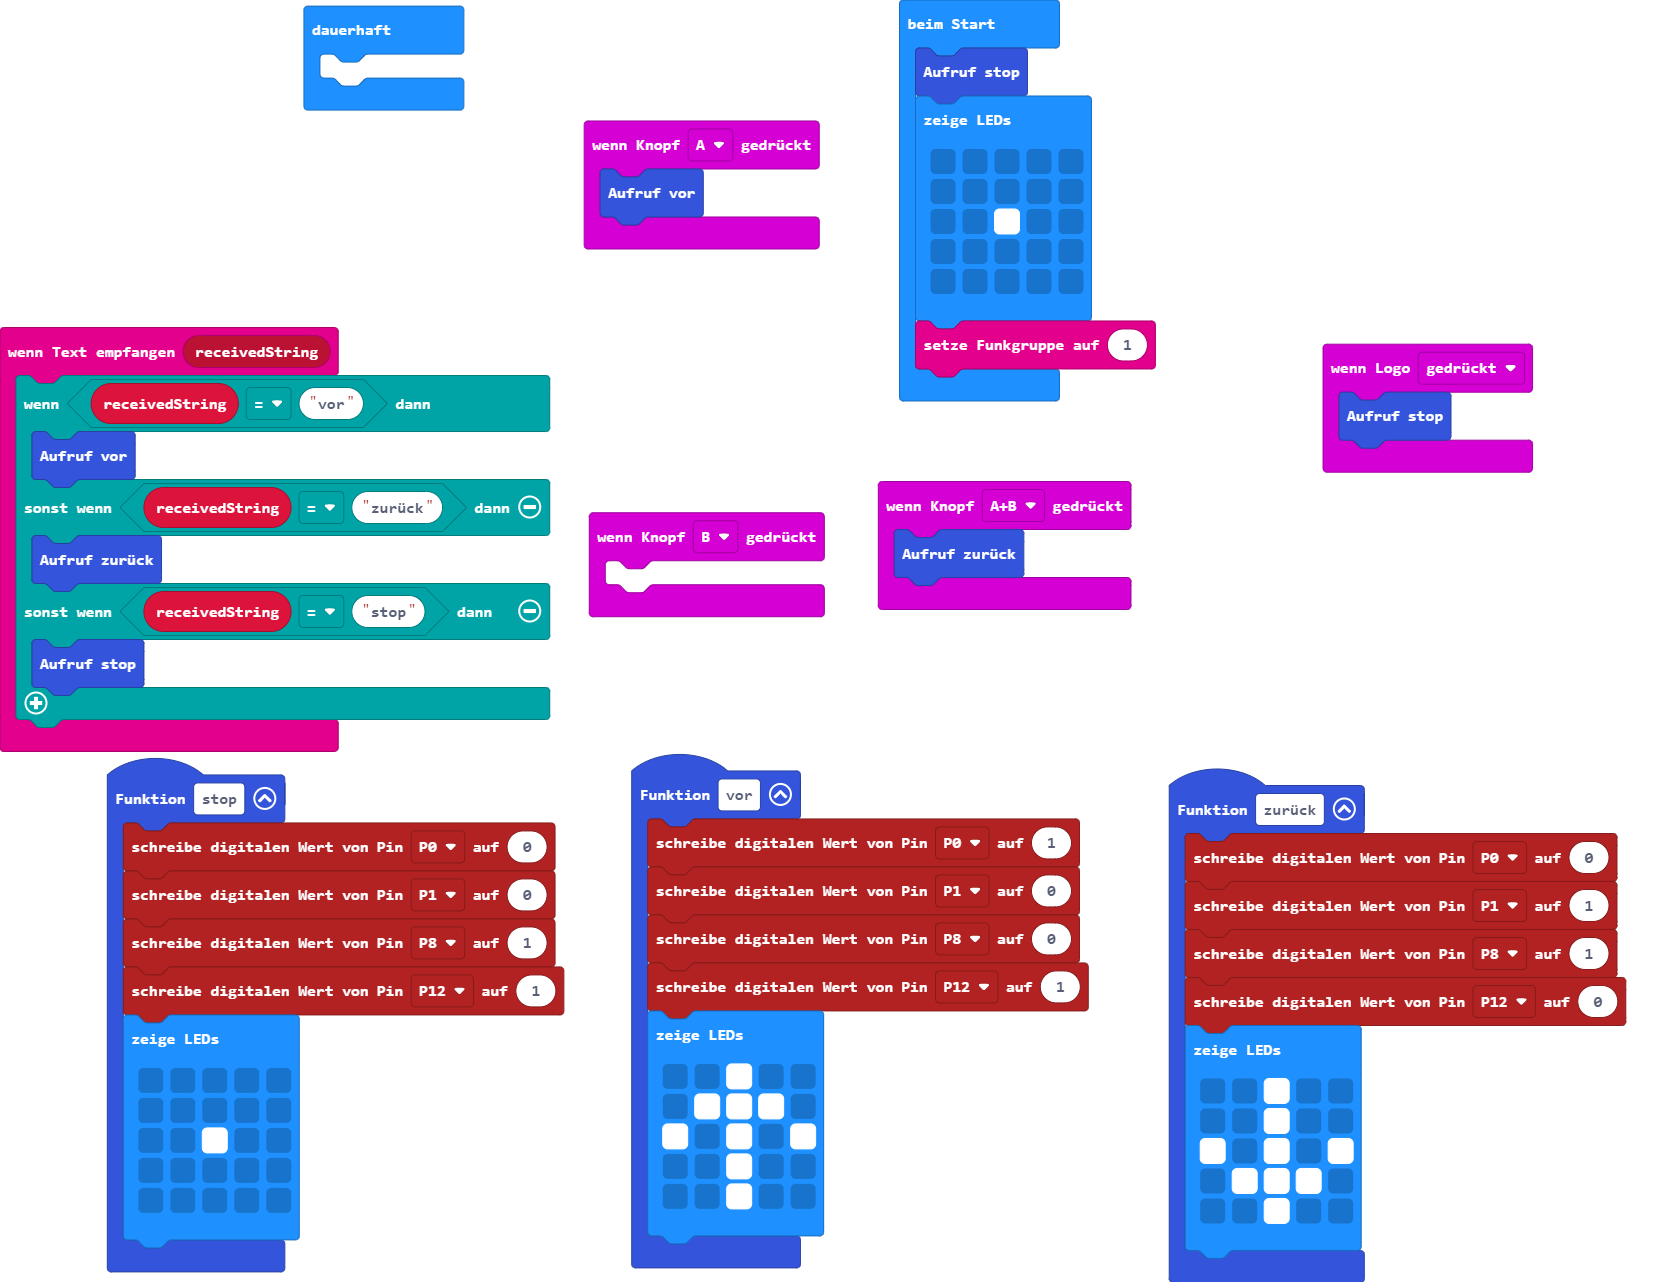
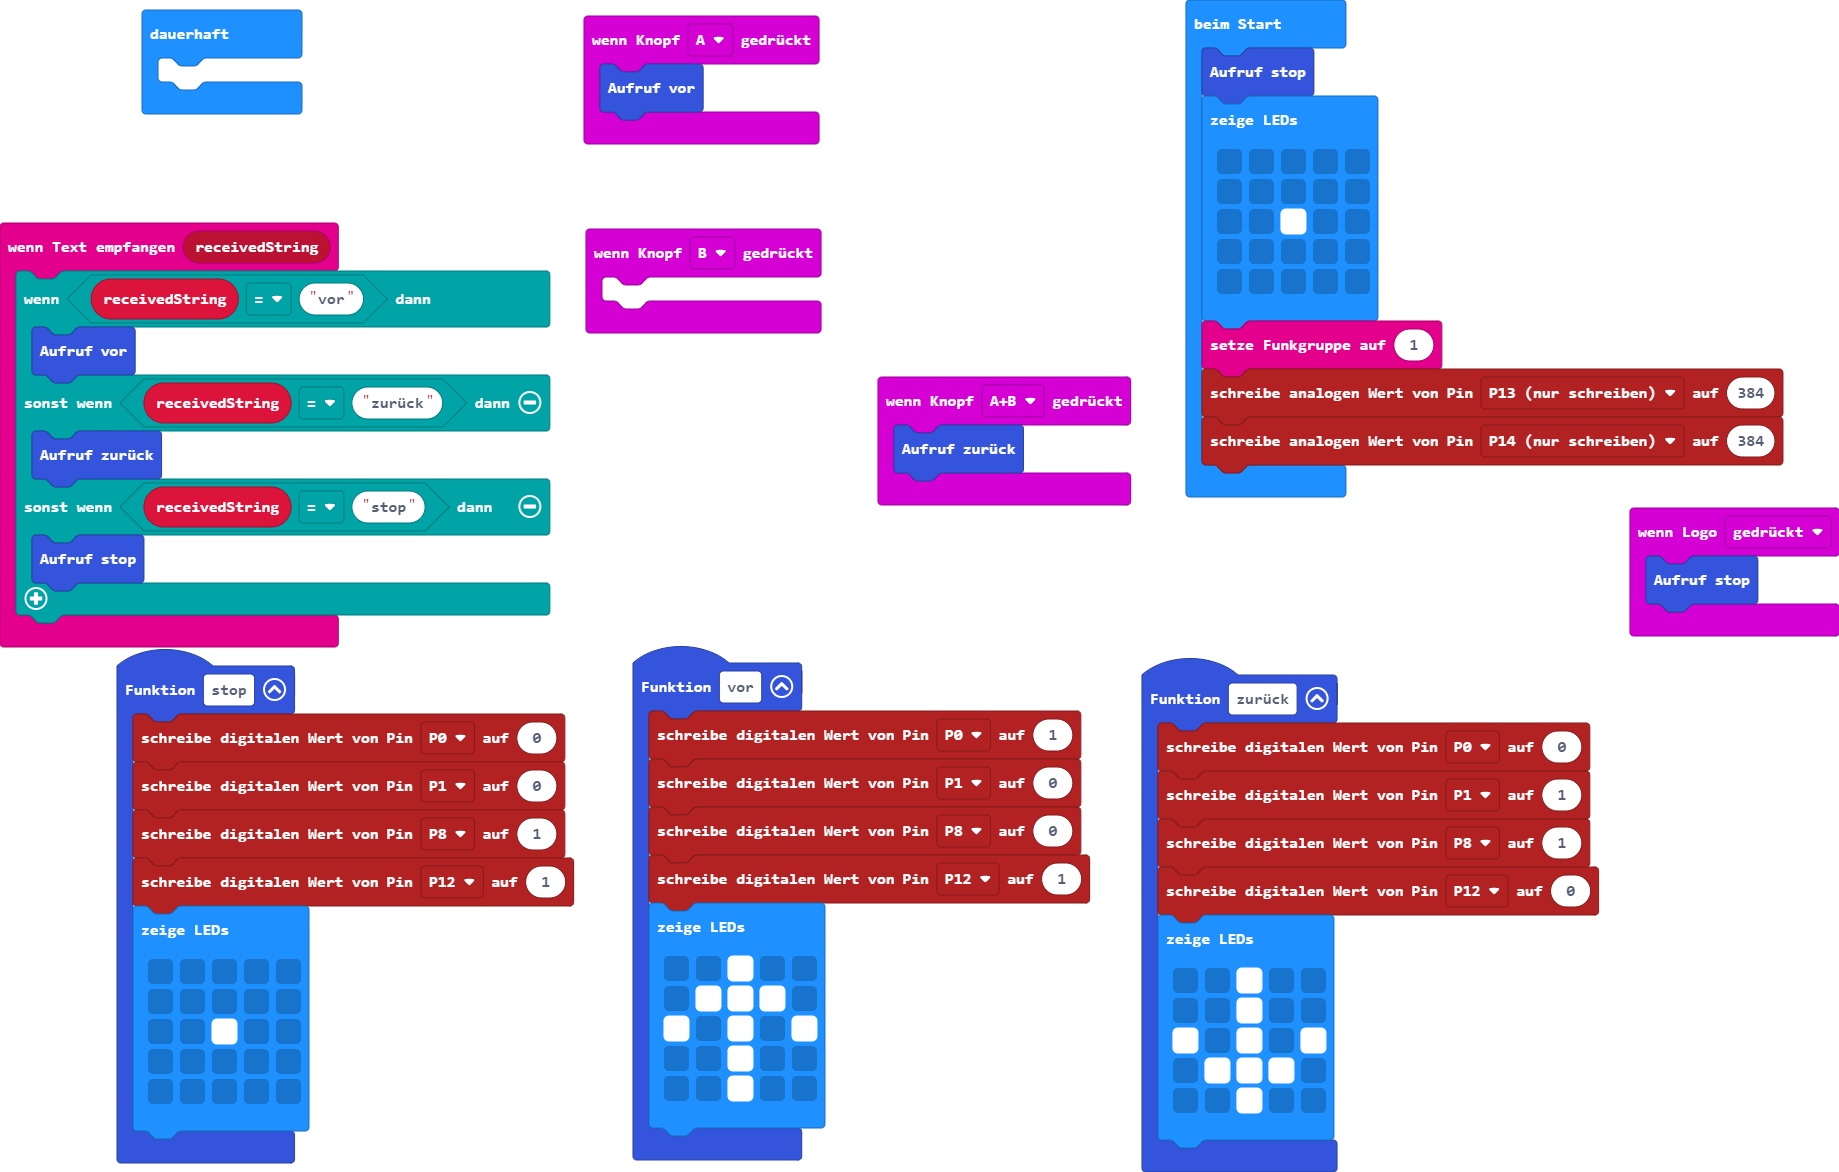
langsam starten

diff --git a/main.ts b/main.ts
@@ -67,6 +67,8 @@ basic.showLeds(`
     . . . . .
     `)
 radio.setGroup(1)
+pins.analogWritePin(AnalogPin.P13, 384)
+pins.analogWritePin(AnalogPin.P14, 384)
 basic.forever(function () {
 	
 })
